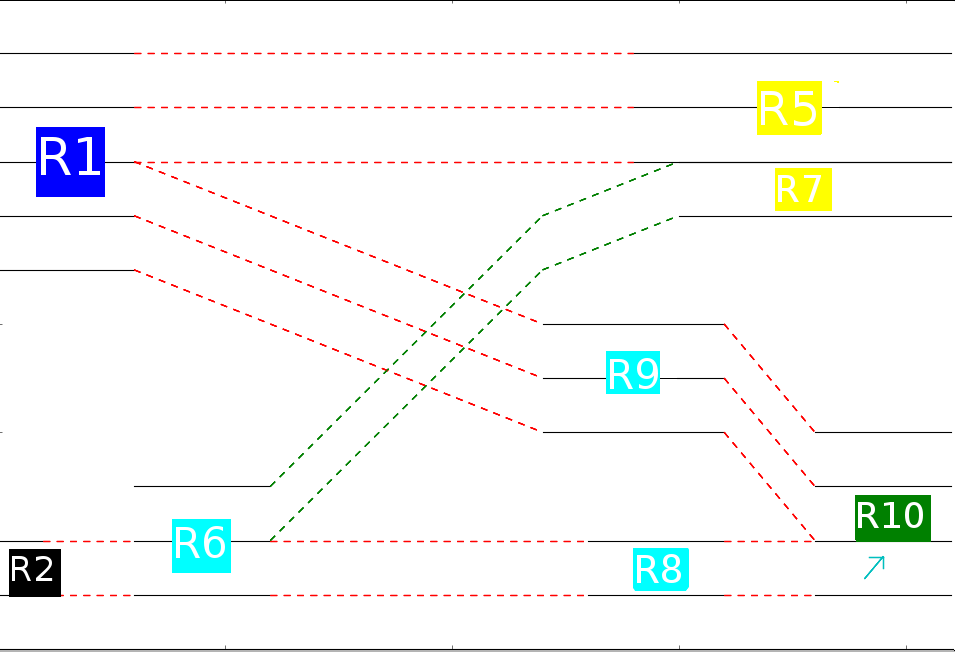
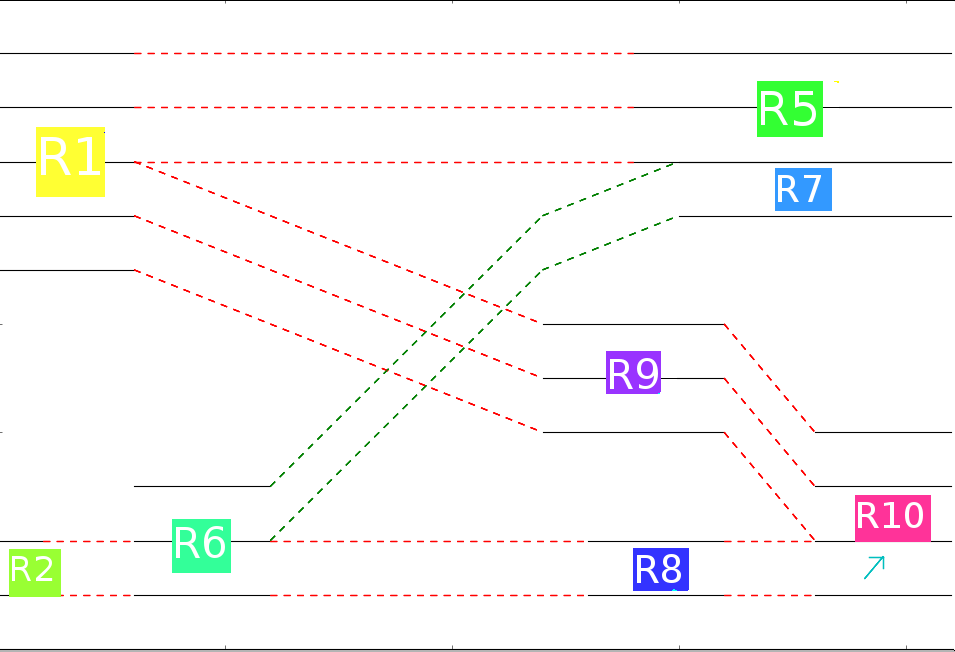
New colors!

diff --git a/process_statistics.py b/process_statistics.py
@@ -72,7 +72,7 @@ def plot_density_flow():
     plt.show()
 
 # Makes a bar plot of the average speed over all sections per hour.
-def plot_speed_averages(path, rest_paths=None, yrange=[0,100], plot_labels=["Original", "New"],
+def plot_speed_averages(path, rest_paths=None, yrange=[0,100], plot_labels=["Original", "New"], labelheight=0.3,
                         sections=['total_average_speed', 'total_average_speed'], colors=['blue', 'red'], image=None):
     df = pd.read_csv(path)
     # Plot the total average speed.
@@ -94,7 +94,7 @@ def plot_speed_averages(path, rest_paths=None, yrange=[0,100], plot_labels=["Ori
     left.set_ylim(yrange[0],yrange[1])
     left.set_xlabel("hours")
     left.set_ylabel("speed")
-    left.legend(bbox_to_anchor=(0, 0.3), loc=2, borderaxespad=0.)
+    left.legend(bbox_to_anchor=(0, labelheight), loc=2, borderaxespad=0.)
     if image != None:
         image = mpimg.imread(image[0])
         right.imshow(image)
@@ -196,25 +196,25 @@ labels = [
 ]
 
 colors = [
-    'red',
-    'blue',
     'black',
-    'yellow',
-    'cyan',
-    'yellow',
-    'cyan',
-    'cyan',
-    'green'
+    '#FFFF33',
+    '#99FF33',
+    '#33FF33',
+    '#33FF99',
+    '#3399FF',
+    '#3333FF',
+    '#9933FF',
+    '#FF3399'
 ]
 
 calculate_average_values(0)
 calculate_average_values(2)
-plot_density_flow()
+#plot_density_flow()
 #plot_speed_averages(0)
 #plot_density_flow(2)
-plot_speed_averages('./results/averages_type_2.csv', paths, sections=sections, plot_labels=labels, colors=colors, image=['./new_road_with_names.png'])
-plot_speed_averages('./results/difference.csv', yrange=[-50,50], plot_labels=["Difference"])
-plot_speed_averages('./results/averages_type_0.csv', ['./results/averages_type_2.csv'])
+plot_speed_averages('./results/averages_type_2.csv', paths, sections=sections, plot_labels=labels, colors=colors, image=['./new_road_with_names.png'], labelheight=0.5)
+#plot_speed_averages('./results/difference.csv', yrange=[-50,50], plot_labels=["Difference"])
+#plot_speed_averages('./results/averages_type_0.csv', ['./results/averages_type_2.csv'])
 #plot_percentage_to_Utrecht(2)
 
 calculate_difference('./results/averages_type_2.csv', './results/averages_type_0.csv')
